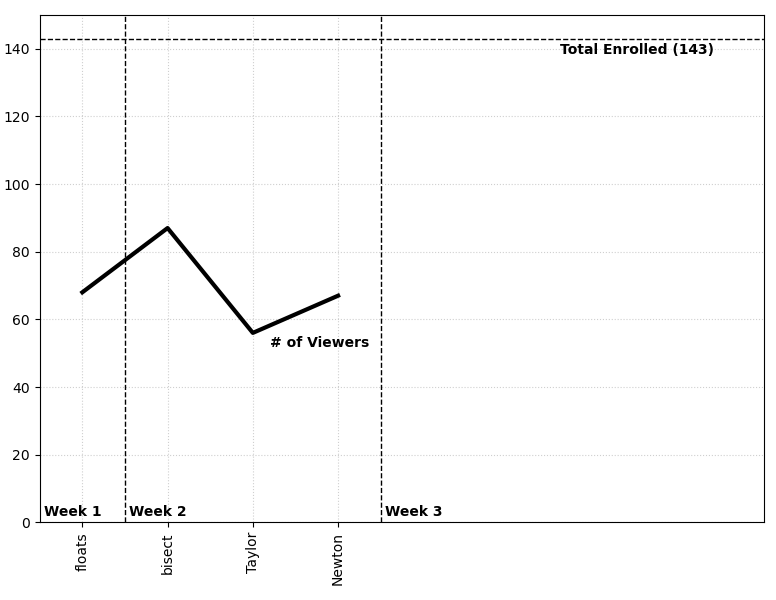
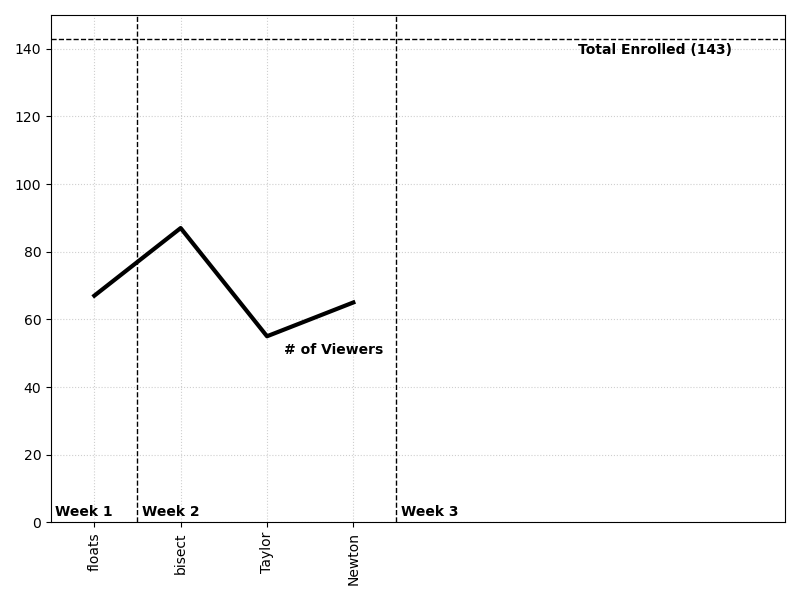
cumulative plot

diff --git a/0_details/course-statistics.md b/0_details/course-statistics.md
@@ -29,4 +29,16 @@ Added (1) for those interested, (2) as examples of (hopefully) well-prepared plo
 :width: 100%
 :align: center
 ```
+Average is 68.5 (or 73.0 if we discard the somewhat-optional Taylor Series video). So, around 50% of students are even opening the videos. 
 
+Further, taking the Newton-Raphson video as an example: The following plot describes the percentage of students ($y$-axis) who watched at least $x$% of the video ($x$-axis). 
+```{figure} cumulative.png
+:alt: 
+:width: 100%
+:align: center
+```
+So: less than half of the class bothered to open the video. Of the 67 students who opened the video (43% of the total number enrolled), only 40 watched the entire video. That is: only 28% of the students enrolled in MCEN 3030 watched the entire video.
+
+The video was 11 minutes and 38 seconds long.
+
+Yes, I can see which students watched the video. Thank you to those who are embracing this course structure.
